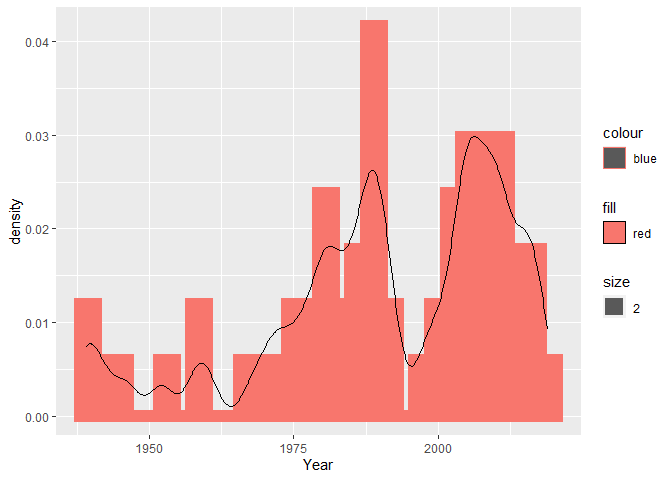
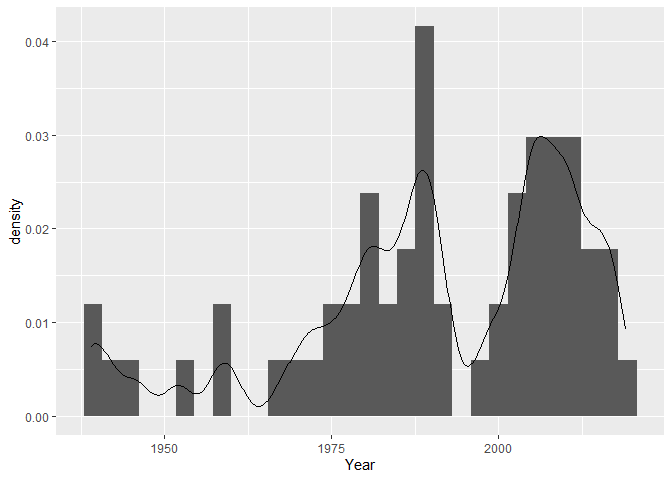
3:31_6_25_2022

diff --git a/README.md b/README.md
@@ -922,8 +922,7 @@ g + geom_density(adjust = 0.5, alpha = 0.5)
 ![](README_files/figure-gfm/3_21_6_25_2022-1.png)<!-- -->
 
 ``` r
-g + geom_histogram(aes(y = ..density.., color = "blue", fill = "red",
-size = 2, binwidth = 3)) +
+g + geom_histogram(aes(y = ..density.., binwidth = 3)) +
 geom_density(adjust = 0.25, alpha = 0.5)
 ```
 
